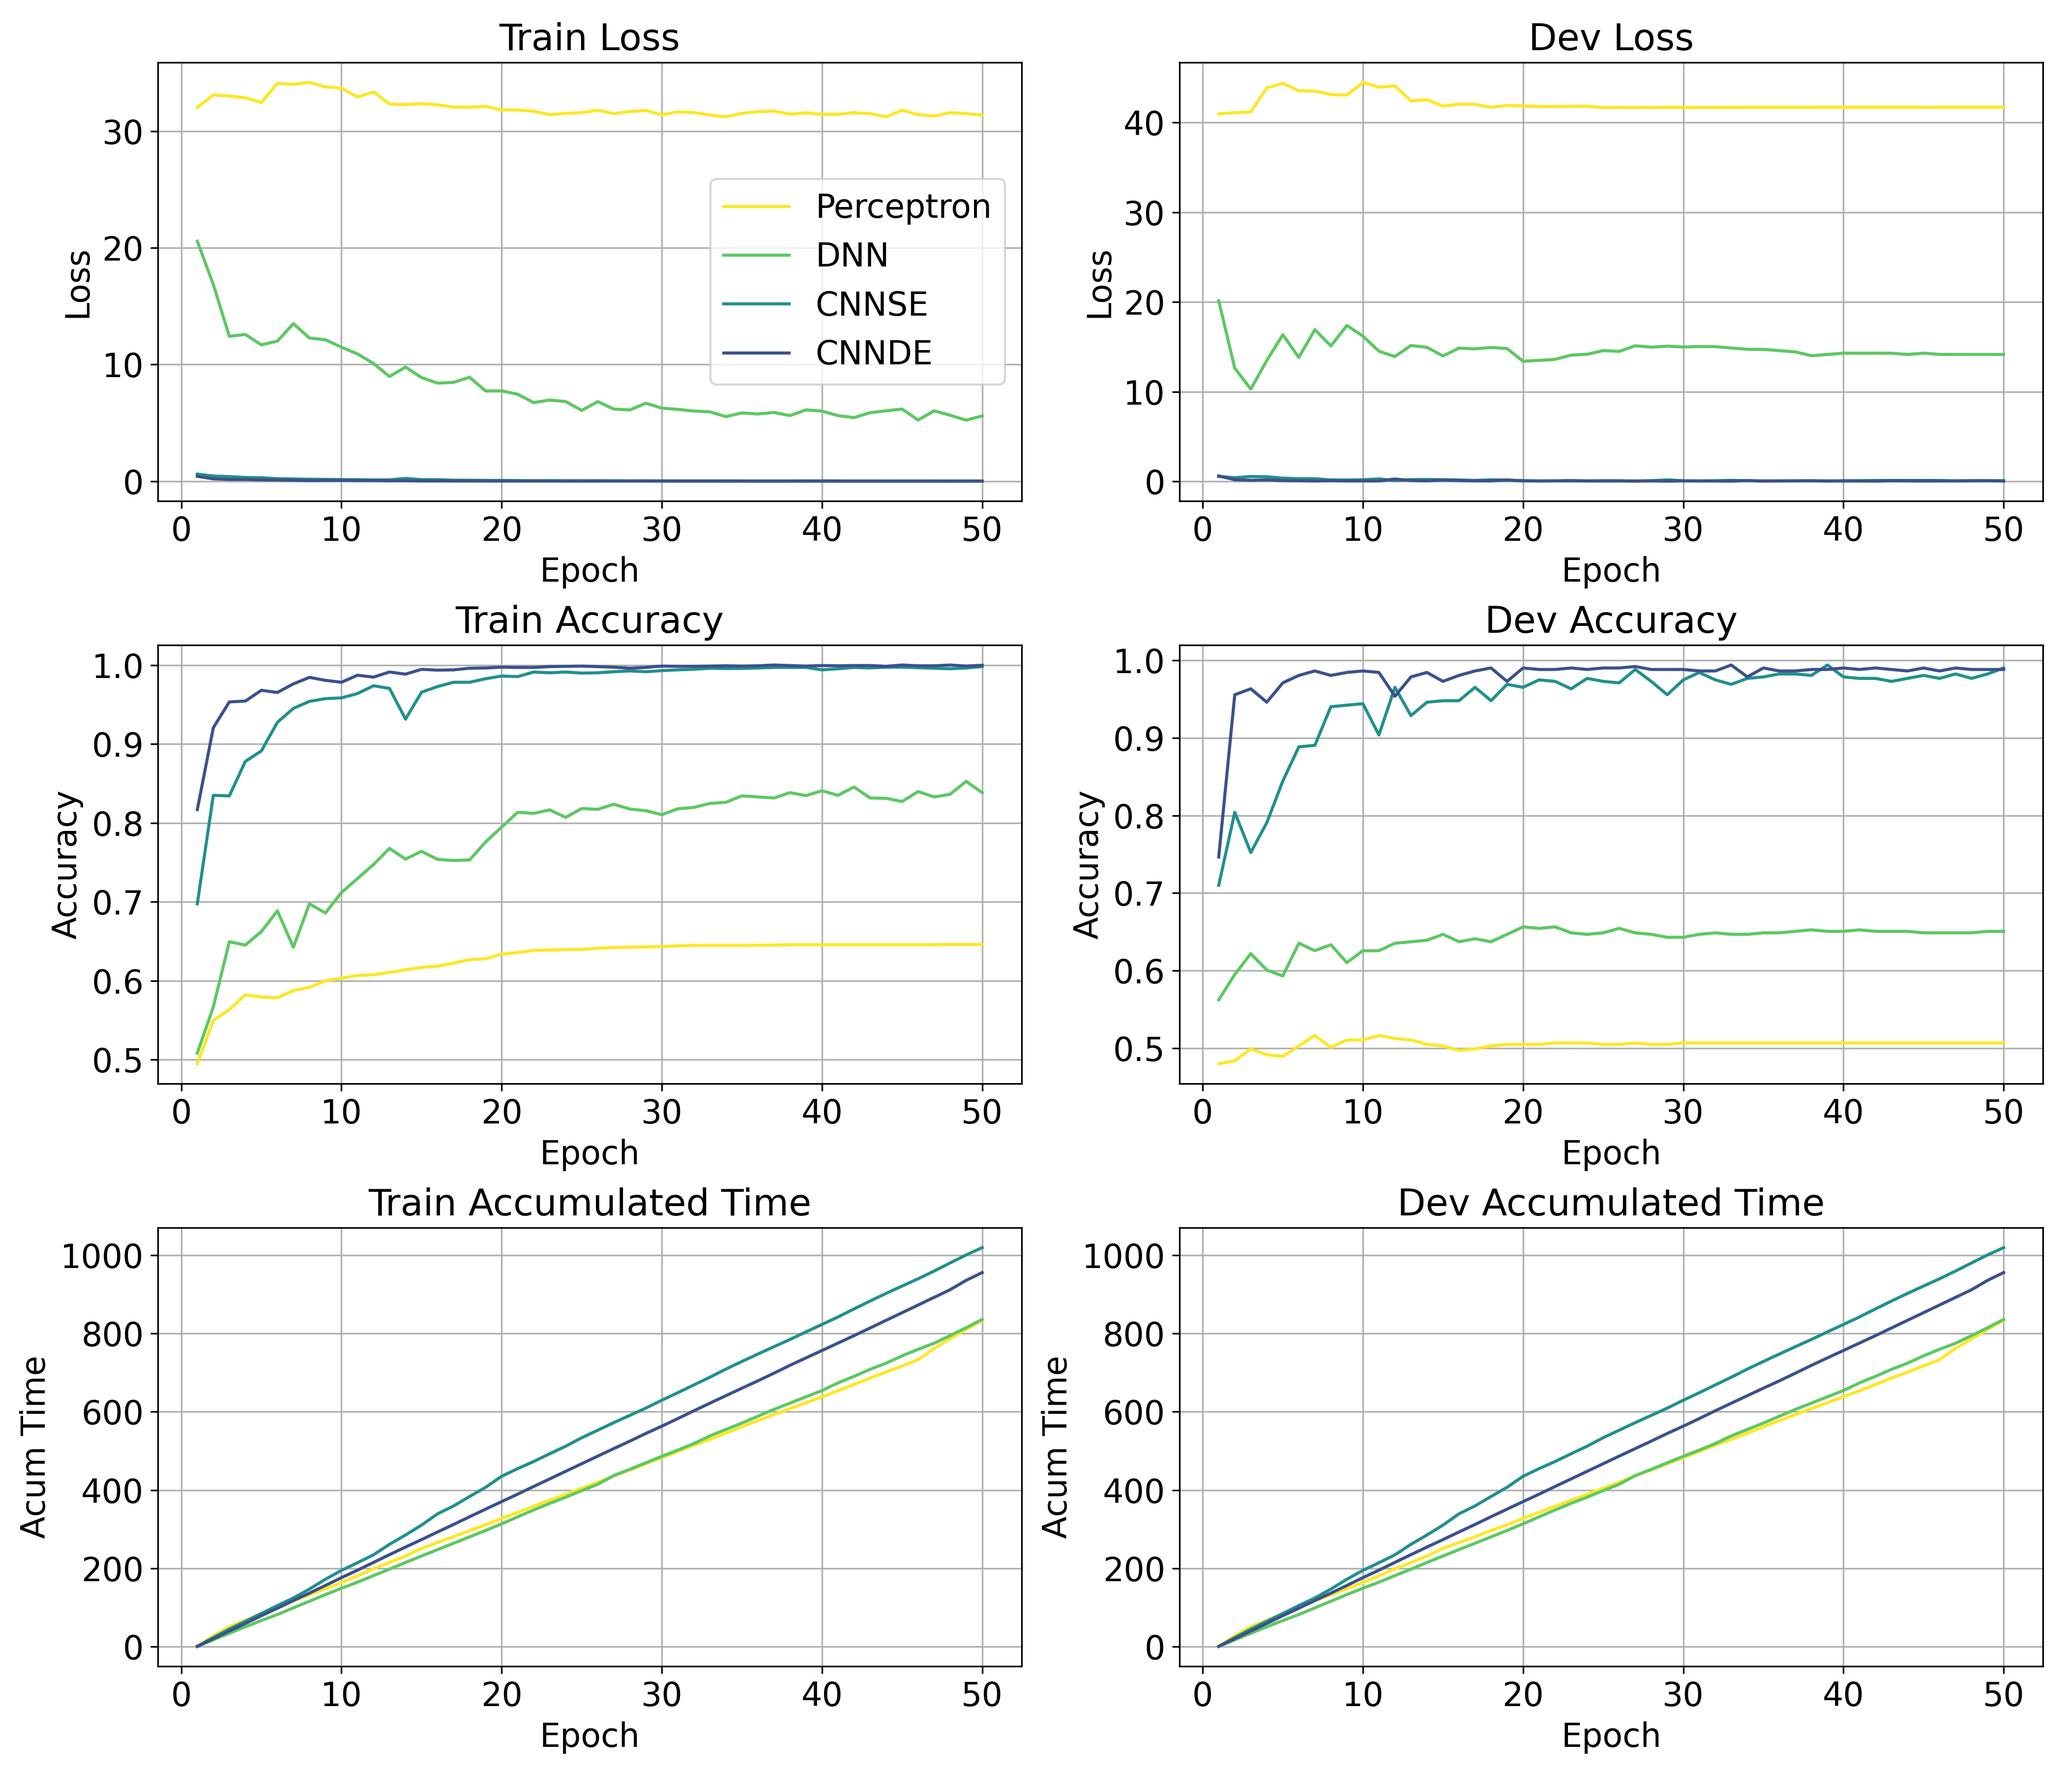
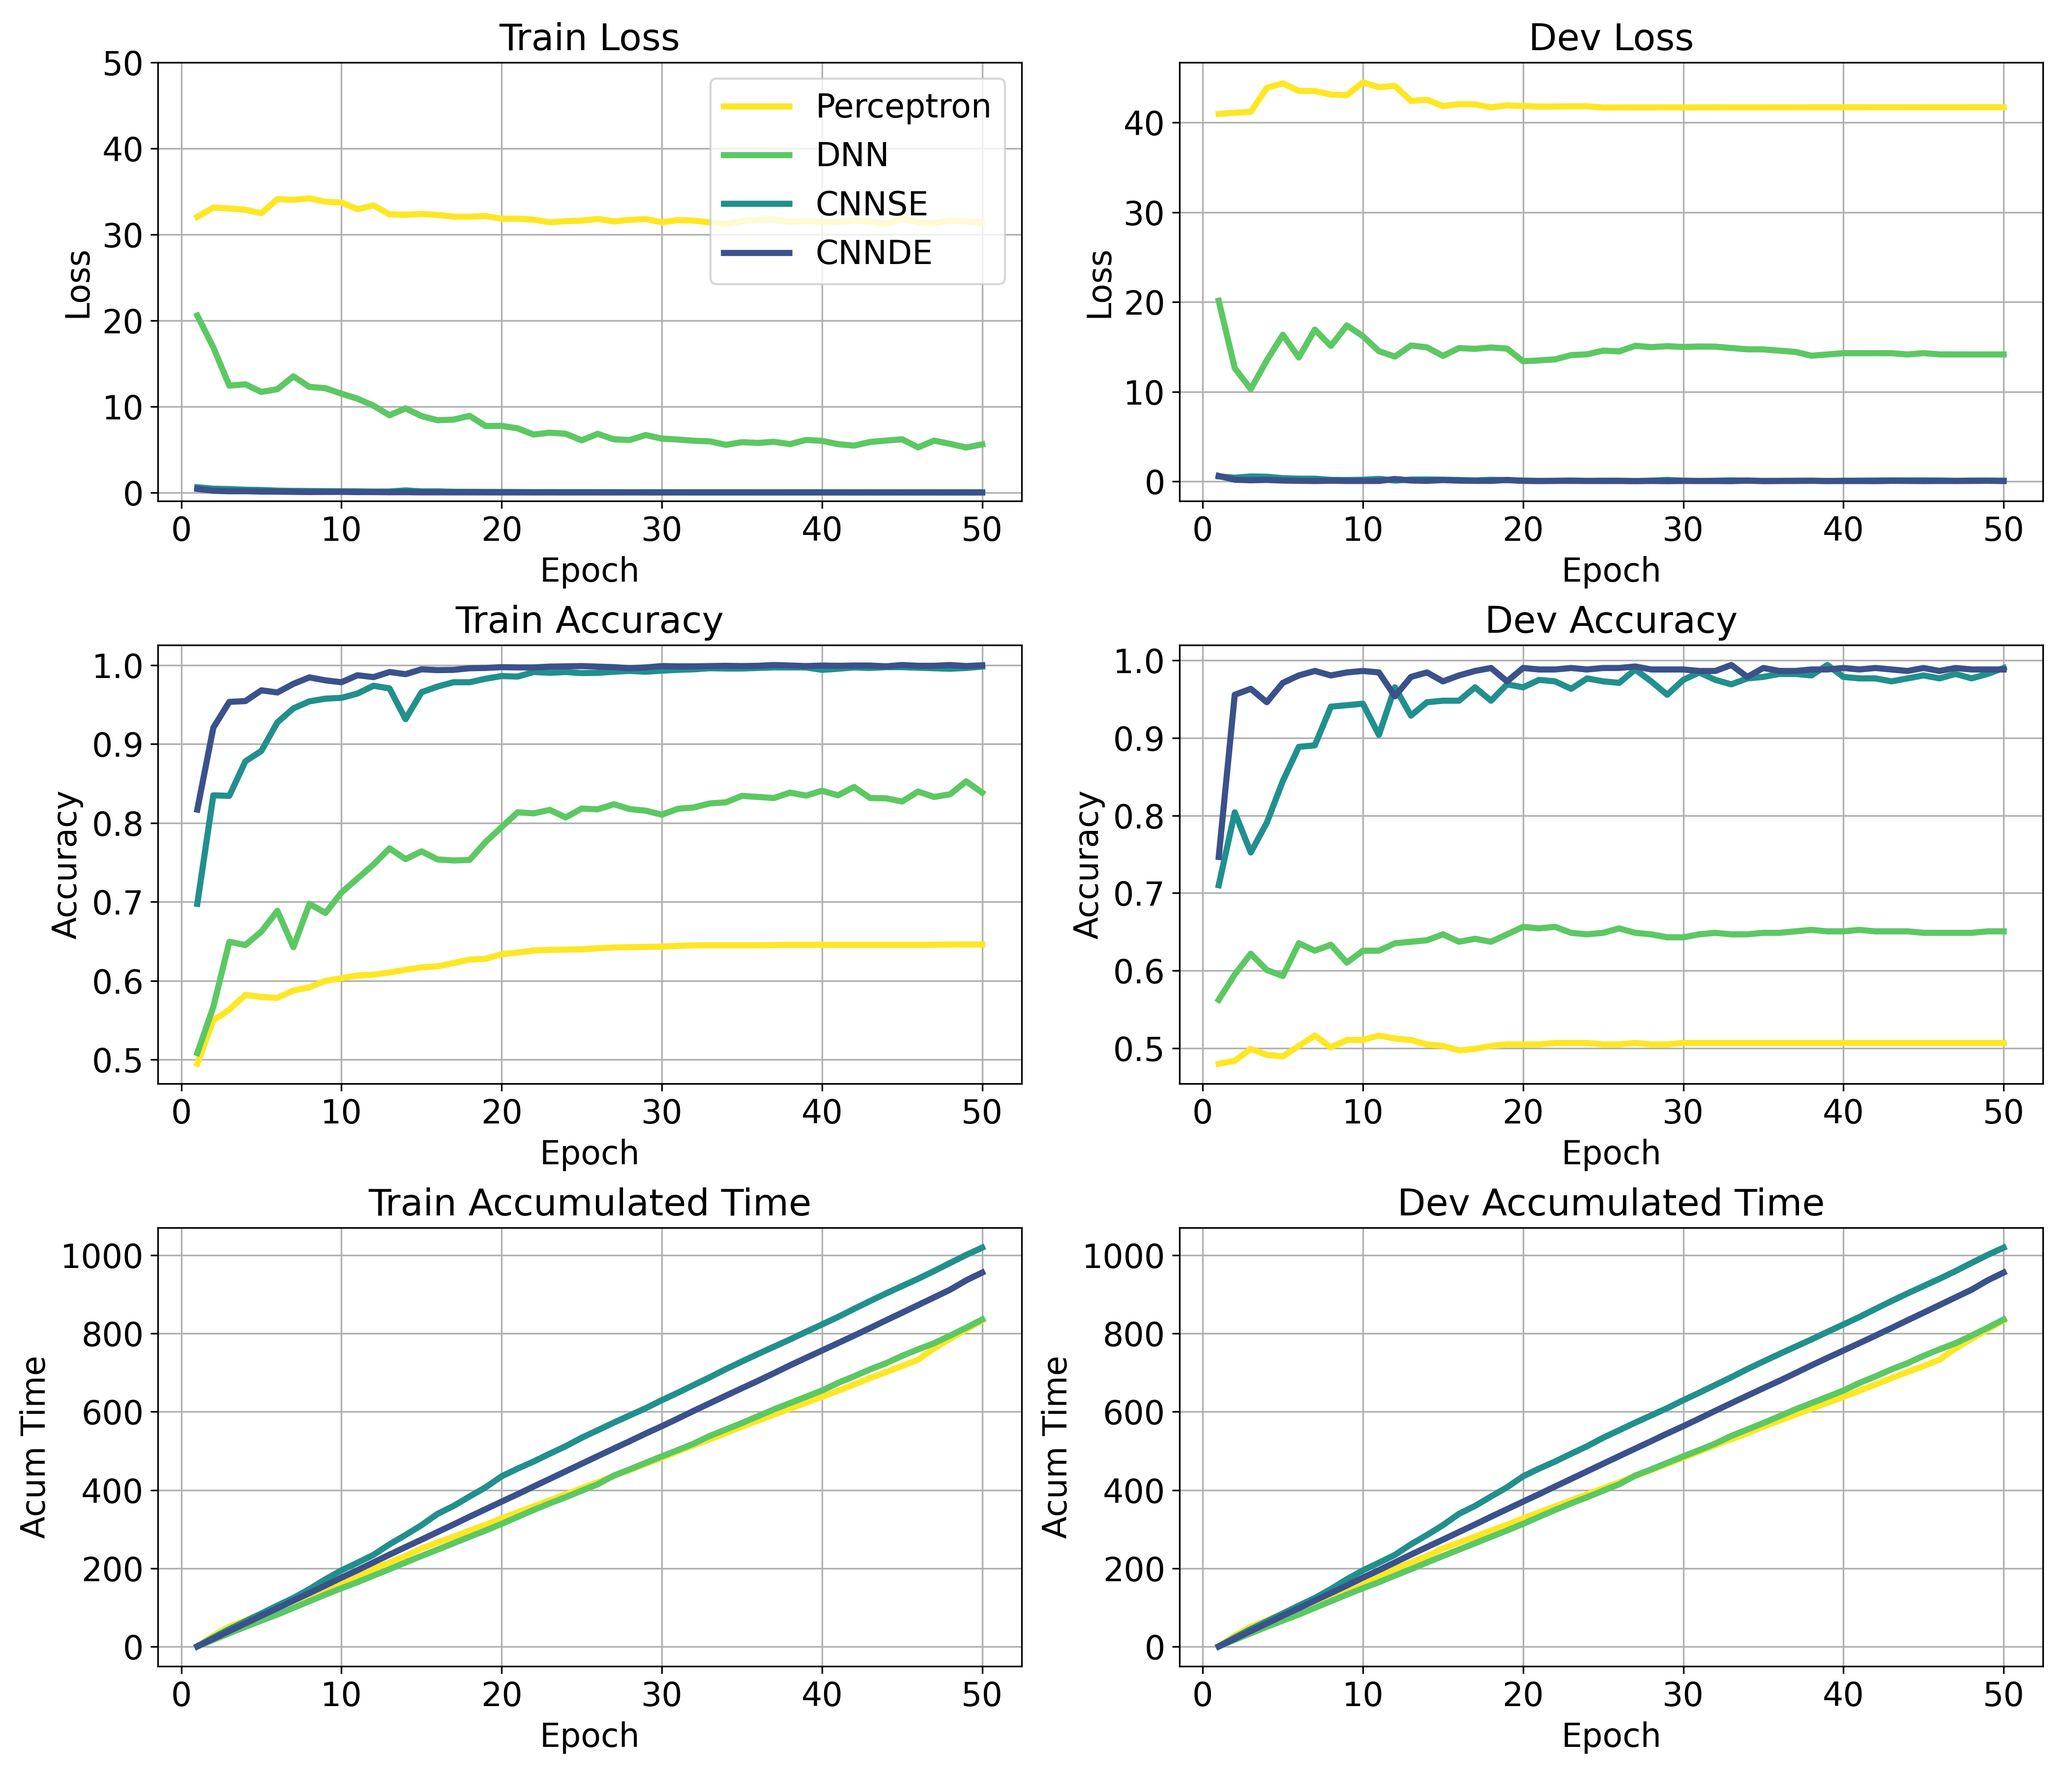
DM

diff --git a/DeepML/plot.py b/DeepML/plot.py
@@ -332,7 +332,7 @@ def plot_training_history(json_path, save_path=None, dpi=300):
     return fig, (ax1, ax2)
 
 
-def plot_multiple_histories(json_paths,label_paths ,save_path=None, dpi=300):
+def plot_multiple_histories(json_paths,label_paths,loss_limits=(-1,50),save_path=None, dpi=300):
     """
     Plots loss, accuracy, and acum_time for train and dev from multiple training history JSON files.
 
@@ -363,12 +363,19 @@ def plot_multiple_histories(json_paths,label_paths ,save_path=None, dpi=300):
             train_vals = history.get(train_key, [])
             dev_vals = history.get(dev_key, [])
 
+            if train_key == "train_loss":
+                # print(*loss_limits)
+                axes[row_idx][0].set_ylim(*loss_limits)
+            if dev_key == "dev_loss":
+                # print(*loss_limits)
+                axes[row_idx][0].set_ylim(*loss_limits)
+            
             if train_vals:
                 epochs = range(1, len(train_vals) + 1)
-                axes[row_idx][0].plot(epochs, train_vals, label=label, color=colors[idx])
+                axes[row_idx][0].plot(epochs, train_vals, label=label, color=colors[idx],linewidth=3)
             if dev_vals:
                 epochs = range(1, len(dev_vals) + 1)
-                axes[row_idx][1].plot(epochs, dev_vals, label=label, color=colors[idx])
+                axes[row_idx][1].plot(epochs, dev_vals, label=label, color=colors[idx],linewidth=3)
 
     # Titles and labels
     titles = [
@@ -473,7 +480,7 @@ if __name__ == "__main__":
     
     label_p = "Perceptron"
     json_path_p = f"/home/edc240000/DeepML/output/models/detection/{label_p}/best/training_history_{label_p}.json"
-    fig_path_p = f"/home/edc240000/DeepML/output/models/detection/training_history.png"
+    fig_path_p = f"/home/edc240000/DeepML/output/models/detection/training_history_{label_p}.png"
     plot_training_history(json_path=json_path_p,save_path=fig_path_p)
     
     label_dnn = "DNN"
